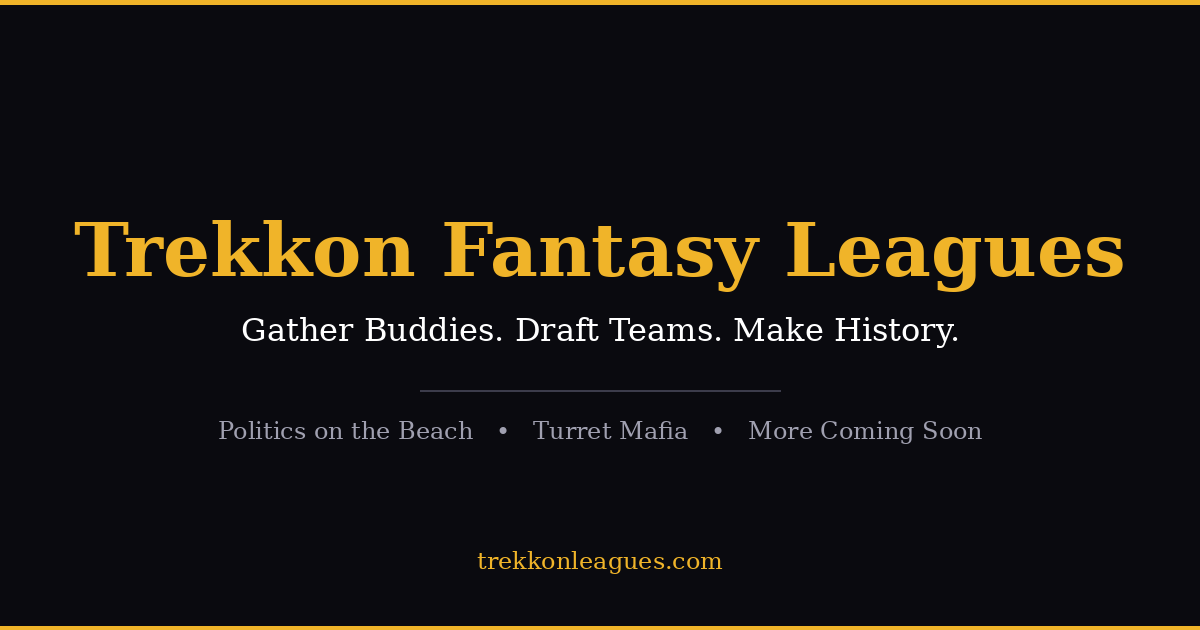
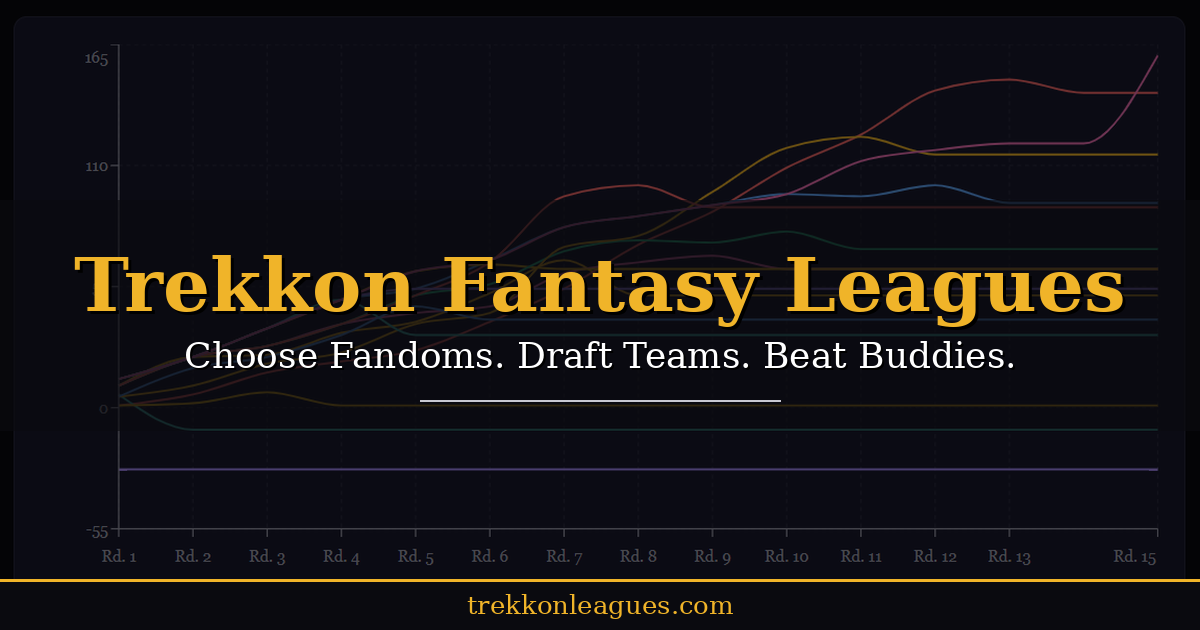
Site polish, new tagline, re-order leagues for mobile, new mobile preview

diff --git a/app/leagues/[type]/page.tsx b/app/leagues/[type]/page.tsx
@@ -38,8 +38,8 @@ const hubContent: Record<string, {
     emoji: '🏝',
     intro: [
       'For 25 years, our screens and hearts have been graced with the iconic television series Survivor. This fantasy league emerged for Season 50, with its zany fan favorites, and continues today for a new generation of players in Fiji and on this platform.',
-      'Whether or not you\u2019ve played fantasy leagues before, please trust we\u2019ll guide you through this process. We encourage you to immerse yourself in the league spirit and community. Draft tribes, make trades, watch episodes, and then get off your couch and live your own adventure!',
-      'To ensure your spot, register by September 15 (11:59 PM CT).',
+'Whether or not you\u2019ve played fantasy leagues before, please trust we\u2019ll guide you through this process. Draft tribes, make trades, watch episodes, stir up chatter, and then get off your couch to live your own adventure!',      
+'To ensure your spot, register by September 15 (11:59 PM CT).',
       'Drafts window is September 16-20 (7:00 PM CT).',
       'Each tribe drafts 4 real-life castaways with the top 3 point-scorers counted toward season totals.',
       'Island politics are dangerous business! Can you survive?!',
@@ -53,7 +53,7 @@ const hubContent: Record<string, {
     emoji: '🗡',
     intro: [
       'Remember that game you used play at band camp? The one where someone is murdered every night and justice is doled out every morning? Well, multiply that by Fegan Floop from <em>Spy Kids</em>, and you have one of the hottest reality competition shows on television, <em>The Traitors</em>.',
-      'Whether or not you\u2019ve played fantasy leagues before, please trust we\u2019ll guide you through this process. We encourage you to immerse yourself in the league spirit and community. Draft teams, make trades, watch episodes, and then get off your couch and live your own adventure!',
+      'Whether or not you\u2019ve played fantasy leagues before, please trust we\u2019ll guide you through this process. Draft teams, make trades, watch episodes, stir up chatter, and then get off your couch to live your own adventure!',
       'To ensure your spot, register by September 15 (11:59 PM CT).',
       'Drafts window is September 16-17 (7:00 PM CT).',
       'Each player drafts 4 real-life faithful or traitors with the top 3 point-scorers counted toward season totals.',
@@ -197,7 +197,7 @@ if (!hubContent[type]) {
       marginBottom: '0px',
       letterSpacing: '.9px'
     }}>
-      Gather Buddies. Draft Teams. Make History.
+      Choose Fandoms. Draft Teams. Beat Buddies.
     </p>
   </div>
 

diff --git a/app/page.tsx b/app/page.tsx
@@ -47,7 +47,7 @@ export default function Home() {
       marginBottom: '0px',
       letterSpacing: '.9px'
     }}>
-      Gather Buddies. Draft Teams. Make History.
+      Choose Fandoms. Draft Teams. Beat Buddies.
     </p>
   </div>
   
@@ -83,7 +83,7 @@ export default function Home() {
   lineHeight: '1.7'
 }}>
   <span style={{ fontStyle: 'italic' }}>Trekkon</span> is derived from the Ancient Greek <span style={{ fontStyle: 'italic' }}>"τρέχω,"</span> to race or run, and <span style={{ fontStyle: 'italic' }}>"ἀγών,"</span> a gathering place for games, competitions, or battles.
-We inspire players to team up with their favorite on-screen personas in the hopes they&apos;ll trek out and conquer their own battles.
+We inspire everyday people to team up with their on-screen favoritess in the hopes they&apos;ll trek out on their own adventures.
 </p>
 </section>
 
@@ -337,7 +337,7 @@ Got an idea for a fantasy league we should build next? Send us your concept and 
   marginBottom: '36px',
   fontSize: 'clamp(.85rem, 4.75vw, 1rem)',
 }}>
-  Prices shown <span style={{ fontWeight: 'bold' }}>per month</span> unless you opt for the yearlong pass (coming soon) good for all leagues.
+  Prices shown <span style={{ fontWeight: 'bold' }}>per month</span> unless you opt for the yearlong All-Access Pass.
 </p>
 
         <div className="home-tier-grid" style={{
@@ -373,7 +373,7 @@ Got an idea for a fantasy league we should build next? Send us your concept and 
               <li>✅ Basic Leaderboards</li>
       <li>✅ Trade Portal Access</li>
  <li>❌ No Analytics</li>
-              <li>❌ No Public Chat</li>
+              <li>❌ Public League Chat</li>
               <li>❌ No League Hosting</li>
               <li>❌ No Settings Controls</li>
             </ul>

diff --git a/app/leagues-overview/page.tsx b/app/leagues-overview/page.tsx
@@ -113,7 +113,7 @@ export default function LeaguesOverviewPage() {
         <div className="leagues-grid">
 
           {/* TOP LEFT — Types of Leagues */}
-          <div>
+          <div className="quad-types">
             <h2 style={{ color: '#f0b429', fontSize: '1.2rem', marginBottom: '8px' }}>
               Types of Leagues
             </h2>
@@ -166,7 +166,7 @@ export default function LeaguesOverviewPage() {
           </div>
 
           {/* TOP RIGHT — Leagues You Host (Crew Chief+) or Your Leagues (everyone else) */}
-          <div>
+          <div className="quad-host-or-own">
             {user && (userTier === 'crewchief' || userTier === 'teamprincipal') ? (
               <>
                 <h2 style={{ color: '#f0b429', fontSize: '1.2rem', marginBottom: '8px' }}>
@@ -237,7 +237,7 @@ export default function LeaguesOverviewPage() {
           </div>
 
           {/* BOTTOM LEFT — Demo League */}
-          <div>
+          <div className="quad-demo">
             <h2 style={{ color: '#f0b429', fontSize: '1.2rem', marginBottom: '8px' }}>
               View a Demo League
             </h2>
@@ -275,7 +275,7 @@ export default function LeaguesOverviewPage() {
           </div>
 
           {/* BOTTOM RIGHT — Your Leagues (shown here for Crew Chief+ hosts, since "Leagues You Host" already occupies the top-right slot for them) */}
-          <div>
+          <div className="quad-own-for-hosts">
             {user && (userTier === 'crewchief' || userTier === 'teamprincipal') && (
               <>
                 <h2 style={{ color: '#f0b429', fontSize: '1.2rem', marginBottom: '8px' }}>

diff --git a/app/login/page.tsx b/app/login/page.tsx
@@ -1,8 +1,9 @@
 'use client'
 
-import { useState } from 'react'
+import { useState, useEffect } from 'react'
 import { useRouter } from 'next/navigation'
 import { supabase } from '@/lib/supabase'
+import { useAuth } from '@/lib/AuthContext'
 
 export default function Login() {
   const [email, setEmail] = useState('')
@@ -10,12 +11,34 @@ export default function Login() {
   const [message, setMessage] = useState('')
   const [loading, setLoading] = useState(false)
   const router = useRouter()
+  const { user, loading: authLoading } = useAuth()
   const [showForgotPassword, setShowForgotPassword] = useState(false)
-const [resetEmail, setResetEmail] = useState('')
-const [resetMessage, setResetMessage] = useState('')
-const [resetLoading, setResetLoading] = useState(false)
+  const [resetEmail, setResetEmail] = useState('')
+  const [resetMessage, setResetMessage] = useState('')
+  const [resetLoading, setResetLoading] = useState(false)
+
+  useEffect(() => {
+    if (!authLoading && user) {
+      router.push('/')
+    }
+  }, [user, authLoading, router])
 
 
+  if (authLoading || user) {
+    return (
+      <main style={{
+        backgroundColor: '#0a0a0f',
+        minHeight: '100vh',
+        display: 'flex',
+        alignItems: 'center',
+        justifyContent: 'center',
+        color: '#a0a0b0',
+        fontFamily: 'Georgia, serif'
+      }}>
+        Loading...
+      </main>
+    )
+  }
 
   const handleResetPassword = async () => {
   if (!resetEmail) {

diff --git a/app/contact/page.tsx b/app/contact/page.tsx
@@ -83,7 +83,7 @@ export default function ContactPage() {
   <Mail size={30} strokeWidth={2} style={{ position: 'relative', top: '1px' }} /> Contact Trekkon
 </h1>
           <p style={{ color: '#a0a0b0', fontSize: '0.9rem', marginBottom: '28px', textAlign: 'center' }}>
-            We&apos;d love to hear from you with any questions, league suggestions, bugs discovered, or real-world inspirations!
+            We&apos;d love to hear from you with questions, league suggestions, bugs discovered, or real-world stories!
           </p>
 
           <label style={labelStyle}>Player Name:</label>
@@ -120,11 +120,11 @@ export default function ContactPage() {
               paddingRight: '36px'
             }}
           >
-            <option value="Other">Miscellaneous Question</option>
             <option value="Signup Question">Signup Question</option>
-            <option value="Billing Question">Billing Question</option>
             <option value="League Question (Already Member)">League Question (I&apos;m a Member)</option>
+            <option value="Billing Question">Billing Question</option>
             <option value="Suggest a New League">Suggest a New League</option>
+            <option value="Other">Miscellaneous Question</option>
           </select>
 
           <label style={labelStyle}>Message:</label>

diff --git a/components/Header.tsx b/components/Header.tsx
@@ -185,13 +185,14 @@ useEffect(() => {
           fontSize: '1.0rem',
           letterSpacing: '.9px'
         }}>
-          Gather Buddies. Draft Teams. Make History.
+          Choose Fandoms. Draft Teams. Beat Buddies.
         </p>
       </a>
 
       <nav style={{ display: 'flex', flexWrap: 'wrap', gap: '12px', alignItems: 'center' }}>
-        <a href="/#tiers" className="btn" style={{ color: '#f0b429', textDecoration: 'none', fontSize: '1.1rem' }}>Pricing</a>
-        <a href="/leagues-overview" className="btn" style={{ color: '#f0b429', textDecoration: 'none', fontSize: '1.2rem' }}>Leagues</a>
+         <a href="/leagues-overview" className="btn" style={{ color: '#f0b429', textDecoration: 'none', fontSize: '1.2rem' }}>Leagues</a>
+         <a href="/#tiers" className="btn" style={{ color: '#f0b429', textDecoration: 'none', fontSize: '1.1rem' }}>Pricing</a>
+       
         <a href="/contact" className="btn" style={{ color: '#f0b429', textDecoration: 'none', fontSize: '1.1rem' }}>Contact</a>
 
         <a href="/extras" className="btn" style={{ color: '#f0b429', textDecoration: 'none', fontSize: '1.1rem' }}>

diff --git a/app/layout.tsx b/app/layout.tsx
@@ -17,13 +17,13 @@ const geistMono = Geist_Mono({
 
 export const metadata: Metadata = {
   title: "Trekkon Fantasy Leagues",
-  description: "Gather Buddies. Draft Teams. Make History.",
+  description: "Choose Fandoms. Draft Teams. Beat Buddies.",
   icons: {
     icon: "/favicon.svg",
   },
   openGraph: {
     title: "Trekkon Fantasy Leagues",
-    description: "Gather Buddies. Draft Teams. Make History.",
+    description: "Choose Fandoms. Draft Teams. Beat Buddies.",
     siteName: "Trekkon Fantasy Leagues",
     images: [
       {
@@ -38,7 +38,7 @@ export const metadata: Metadata = {
   twitter: {
     card: "summary_large_image",
     title: "Trekkon Fantasy Leagues",
-    description: "Gather Buddies. Draft Teams. Make History.",
+    description: "Choose Fandoms. Draft Teams. Beat Buddies.",
     images: ["https://trekkonleagues.com/og-image.png"],
   },
 };

diff --git a/app/globals.css b/app/globals.css
@@ -572,3 +572,14 @@ html, body {
     left: 0;
   }
 }
+
+@media (max-width: 600px) {
+  .leagues-grid {
+    display: flex;
+    flex-direction: column;
+  }
+  .quad-host-or-own { order: 1; }
+  .quad-own-for-hosts { order: 2; }
+  .quad-types { order: 3; }
+  .quad-demo { order: 4; }
+}
